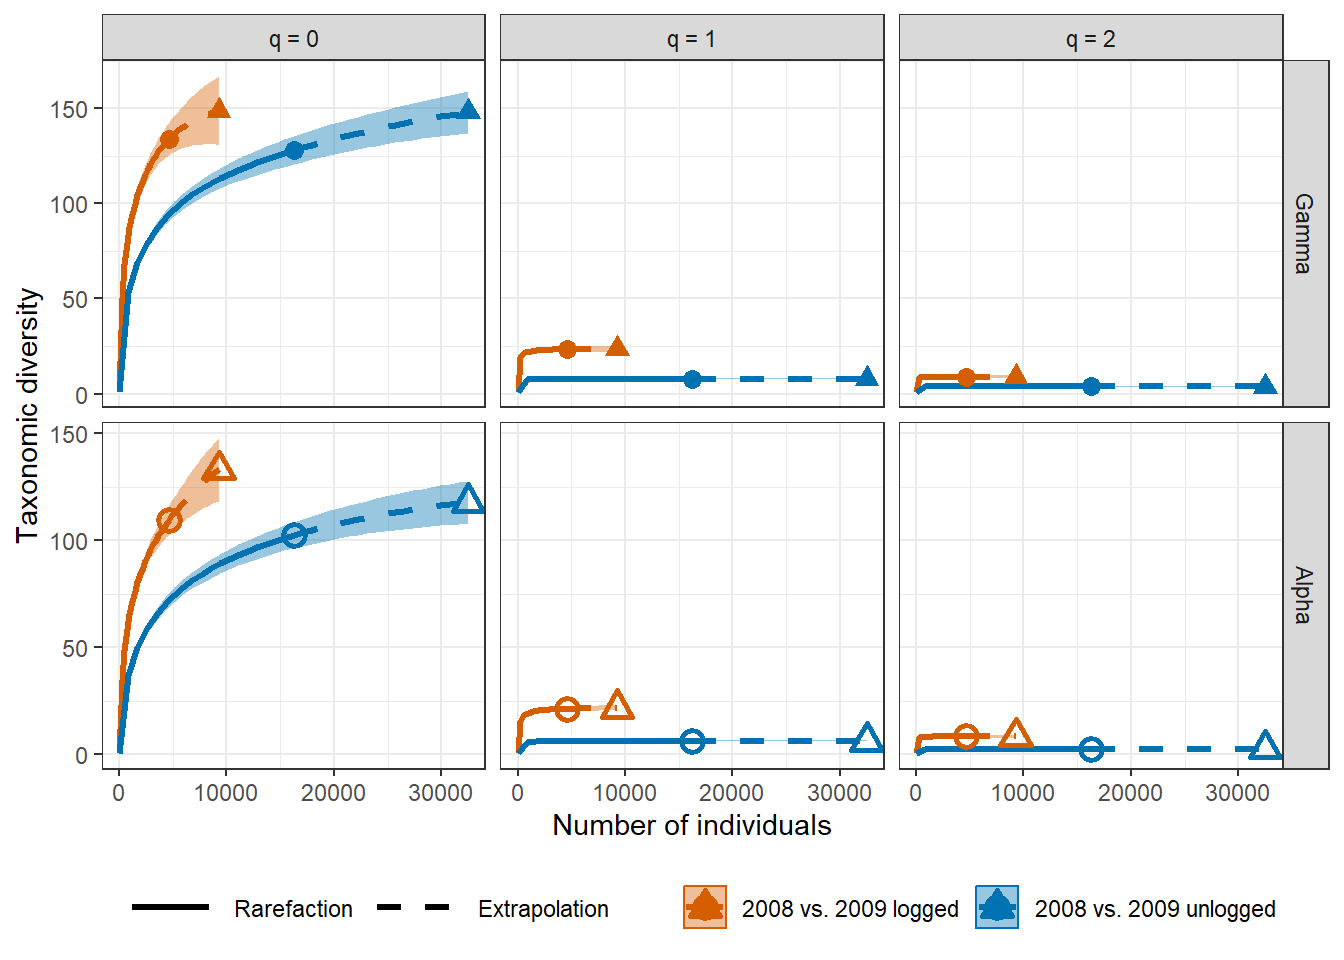
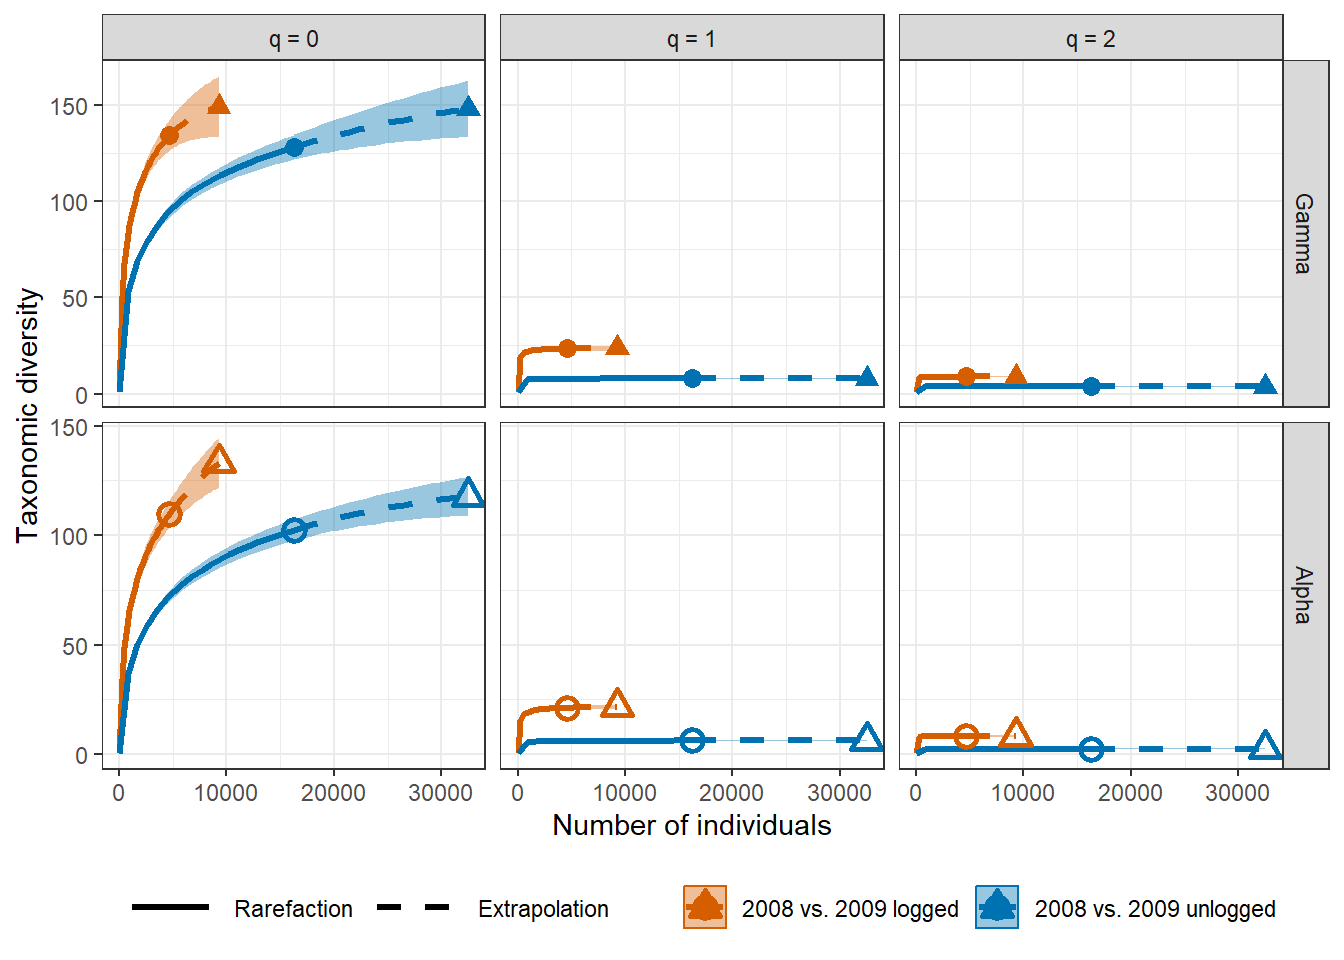
Update README.

diff --git a/README.md b/README.md
@@ -12,8 +12,8 @@ User’s Guide
 </h3>
 </font> <br>
 <h5>
-<b>Hsieh, Anne Chao, Kai-Hsiang Hu</b> <br><br> <i>Institute of
-Statistics, National Tsing Hua University, Hsin-Chu, Taiwan 30043</i>
+<b>Anne Chao, Kai-Hsiang Hu</b> <br><br> <i>Institute of Statistics,
+National Tsing Hua University, Hsin-Chu, Taiwan 30043</i>
 </h5>
 
 <br> iNEXT.beta3D (iNterpolation and EXTrapolation for three dimensions
@@ -61,9 +61,9 @@ alpha, and beta diversity and four dissimilarity-turnover.
 
 The `iNEXT.beta3D` package can be downloaded from Anne Chao’s
 [iNEXT.beta3D_github](https://github.com/AnneChao/iNEXT.beta3D) using
-the following commands. For a first-time installation, an additional
-visualization extension package (`ggplot2`) and (`iNEXT.3D`) from Anne
-Chao’s github must be installed and loaded.
+the following commands. For a first-time installation, additional
+visualization extension packages (`ggplot2`) from CRAN and (`iNEXT.3D`)
+from Anne Chao’s github must be installed and loaded.
 
 ``` r
 # install_github('AnneChao/iNEXT.3D')
@@ -473,66 +473,66 @@ Abundance_TD
 
     $gamma
       Estimate Order.q      Method    SC  Size  s.e.   LCL   UCL                 Region diversity
-    1    2.032       0 Rarefaction 0.500 2.534 0.022 1.989 2.074 2008 vs. 2009 unlogged        TD
-    2    1.909       1 Rarefaction 0.500 2.534 0.019 1.872 1.947 2008 vs. 2009 unlogged        TD
-    3    1.776       2 Rarefaction 0.500 2.534 0.016 1.744 1.808 2008 vs. 2009 unlogged        TD
-    4    2.174       0 Rarefaction 0.525 2.787 0.024 2.126 2.222 2008 vs. 2009 unlogged        TD
-    5    2.028       1 Rarefaction 0.525 2.787 0.022 1.985 2.070 2008 vs. 2009 unlogged        TD
-    6    1.871       2 Rarefaction 0.525 2.787 0.019 1.835 1.907 2008 vs. 2009 unlogged        TD
+    1    2.032       0 Rarefaction 0.500 2.534 0.026 1.980 2.083 2008 vs. 2009 unlogged        TD
+    2    1.909       1 Rarefaction 0.500 2.534 0.023 1.864 1.955 2008 vs. 2009 unlogged        TD
+    3    1.776       2 Rarefaction 0.500 2.534 0.020 1.738 1.815 2008 vs. 2009 unlogged        TD
+    4    2.174       0 Rarefaction 0.525 2.787 0.030 2.116 2.233 2008 vs. 2009 unlogged        TD
+    5    2.028       1 Rarefaction 0.525 2.787 0.026 1.976 2.079 2008 vs. 2009 unlogged        TD
+    6    1.871       2 Rarefaction 0.525 2.787 0.022 1.827 1.915 2008 vs. 2009 unlogged        TD
 
     $alpha
       Estimate Order.q      Method    SC  Size  s.e.   LCL   UCL                 Region diversity
-    1    1.566       0 Rarefaction 0.500 4.141 0.023 1.521 1.611 2008 vs. 2009 unlogged        TD
-    2    1.434       1 Rarefaction 0.500 4.141 0.020 1.395 1.472 2008 vs. 2009 unlogged        TD
-    3    1.291       2 Rarefaction 0.500 4.141 0.016 1.259 1.323 2008 vs. 2009 unlogged        TD
-    4    1.686       0 Rarefaction 0.525 4.615 0.026 1.634 1.738 2008 vs. 2009 unlogged        TD
-    5    1.527       1 Rarefaction 0.525 4.615 0.023 1.483 1.571 2008 vs. 2009 unlogged        TD
-    6    1.360       2 Rarefaction 0.525 4.615 0.019 1.324 1.396 2008 vs. 2009 unlogged        TD
+    1    1.566       0 Rarefaction 0.500 4.141 0.021 1.525 1.606 2008 vs. 2009 unlogged        TD
+    2    1.434       1 Rarefaction 0.500 4.141 0.017 1.400 1.468 2008 vs. 2009 unlogged        TD
+    3    1.291       2 Rarefaction 0.500 4.141 0.014 1.263 1.319 2008 vs. 2009 unlogged        TD
+    4    1.686       0 Rarefaction 0.525 4.615 0.024 1.639 1.733 2008 vs. 2009 unlogged        TD
+    5    1.527       1 Rarefaction 0.525 4.615 0.020 1.488 1.567 2008 vs. 2009 unlogged        TD
+    6    1.360       2 Rarefaction 0.525 4.615 0.016 1.328 1.392 2008 vs. 2009 unlogged        TD
 
     $beta
       Estimate Order.q      Method    SC  Size  s.e.   LCL   UCL                 Region diversity
-    1    1.298       0 Rarefaction 0.500 4.141 0.004 1.289 1.306 2008 vs. 2009 unlogged        TD
-    2    1.332       1 Rarefaction 0.500 4.141 0.004 1.323 1.340 2008 vs. 2009 unlogged        TD
-    3    1.376       2 Rarefaction 0.500 4.141 0.004 1.368 1.384 2008 vs. 2009 unlogged        TD
-    4    1.289       0 Rarefaction 0.525 4.615 0.004 1.281 1.298 2008 vs. 2009 unlogged        TD
-    5    1.328       1 Rarefaction 0.525 4.615 0.004 1.319 1.336 2008 vs. 2009 unlogged        TD
-    6    1.376       2 Rarefaction 0.525 4.615 0.004 1.367 1.384 2008 vs. 2009 unlogged        TD
+    1    1.298       0 Rarefaction 0.500 4.141 0.005 1.289 1.307 2008 vs. 2009 unlogged        TD
+    2    1.332       1 Rarefaction 0.500 4.141 0.005 1.323 1.341 2008 vs. 2009 unlogged        TD
+    3    1.376       2 Rarefaction 0.500 4.141 0.005 1.367 1.385 2008 vs. 2009 unlogged        TD
+    4    1.289       0 Rarefaction 0.525 4.615 0.005 1.280 1.298 2008 vs. 2009 unlogged        TD
+    5    1.328       1 Rarefaction 0.525 4.615 0.005 1.319 1.337 2008 vs. 2009 unlogged        TD
+    6    1.376       2 Rarefaction 0.525 4.615 0.005 1.367 1.385 2008 vs. 2009 unlogged        TD
 
     $C
       Estimate Order.q      Method    SC  Size  s.e.   LCL   UCL                 Region diversity
-    1    0.298       0 Rarefaction 0.500 4.141 0.004 0.289 0.306 2008 vs. 2009 unlogged        TD
-    2    0.413       1 Rarefaction 0.500 4.141 0.005 0.404 0.422 2008 vs. 2009 unlogged        TD
-    3    0.546       2 Rarefaction 0.500 4.141 0.004 0.538 0.555 2008 vs. 2009 unlogged        TD
-    4    0.289       0 Rarefaction 0.525 4.615 0.004 0.281 0.298 2008 vs. 2009 unlogged        TD
-    5    0.409       1 Rarefaction 0.525 4.615 0.005 0.400 0.418 2008 vs. 2009 unlogged        TD
-    6    0.546       2 Rarefaction 0.525 4.615 0.005 0.537 0.555 2008 vs. 2009 unlogged        TD
+    1    0.298       0 Rarefaction 0.500 4.141 0.005 0.289 0.307 2008 vs. 2009 unlogged        TD
+    2    0.413       1 Rarefaction 0.500 4.141 0.005 0.403 0.423 2008 vs. 2009 unlogged        TD
+    3    0.546       2 Rarefaction 0.500 4.141 0.005 0.537 0.556 2008 vs. 2009 unlogged        TD
+    4    0.289       0 Rarefaction 0.525 4.615 0.005 0.280 0.298 2008 vs. 2009 unlogged        TD
+    5    0.409       1 Rarefaction 0.525 4.615 0.005 0.399 0.419 2008 vs. 2009 unlogged        TD
+    6    0.546       2 Rarefaction 0.525 4.615 0.005 0.537 0.556 2008 vs. 2009 unlogged        TD
 
     $U
       Estimate Order.q      Method    SC  Size  s.e.   LCL   UCL                 Region diversity
-    1    0.459       0 Rarefaction 0.500 4.141 0.005 0.449 0.469 2008 vs. 2009 unlogged        TD
-    2    0.413       1 Rarefaction 0.500 4.141 0.005 0.404 0.422 2008 vs. 2009 unlogged        TD
-    3    0.376       2 Rarefaction 0.500 4.141 0.004 0.368 0.384 2008 vs. 2009 unlogged        TD
-    4    0.449       0 Rarefaction 0.525 4.615 0.005 0.438 0.459 2008 vs. 2009 unlogged        TD
-    5    0.409       1 Rarefaction 0.525 4.615 0.005 0.400 0.418 2008 vs. 2009 unlogged        TD
-    6    0.376       2 Rarefaction 0.525 4.615 0.004 0.367 0.384 2008 vs. 2009 unlogged        TD
+    1    0.459       0 Rarefaction 0.500 4.141 0.005 0.448 0.469 2008 vs. 2009 unlogged        TD
+    2    0.413       1 Rarefaction 0.500 4.141 0.005 0.403 0.423 2008 vs. 2009 unlogged        TD
+    3    0.376       2 Rarefaction 0.500 4.141 0.005 0.367 0.385 2008 vs. 2009 unlogged        TD
+    4    0.449       0 Rarefaction 0.525 4.615 0.005 0.438 0.460 2008 vs. 2009 unlogged        TD
+    5    0.409       1 Rarefaction 0.525 4.615 0.005 0.399 0.419 2008 vs. 2009 unlogged        TD
+    6    0.376       2 Rarefaction 0.525 4.615 0.005 0.367 0.385 2008 vs. 2009 unlogged        TD
 
     $V
       Estimate Order.q      Method    SC  Size  s.e.   LCL   UCL                 Region diversity
-    1    0.298       0 Rarefaction 0.500 4.141 0.004 0.289 0.306 2008 vs. 2009 unlogged        TD
-    2    0.332       1 Rarefaction 0.500 4.141 0.004 0.323 0.340 2008 vs. 2009 unlogged        TD
-    3    0.376       2 Rarefaction 0.500 4.141 0.004 0.368 0.384 2008 vs. 2009 unlogged        TD
-    4    0.289       0 Rarefaction 0.525 4.615 0.004 0.281 0.298 2008 vs. 2009 unlogged        TD
-    5    0.328       1 Rarefaction 0.525 4.615 0.004 0.319 0.336 2008 vs. 2009 unlogged        TD
-    6    0.376       2 Rarefaction 0.525 4.615 0.004 0.367 0.384 2008 vs. 2009 unlogged        TD
+    1    0.298       0 Rarefaction 0.500 4.141 0.005 0.289 0.307 2008 vs. 2009 unlogged        TD
+    2    0.332       1 Rarefaction 0.500 4.141 0.005 0.323 0.341 2008 vs. 2009 unlogged        TD
+    3    0.376       2 Rarefaction 0.500 4.141 0.005 0.367 0.385 2008 vs. 2009 unlogged        TD
+    4    0.289       0 Rarefaction 0.525 4.615 0.005 0.280 0.298 2008 vs. 2009 unlogged        TD
+    5    0.328       1 Rarefaction 0.525 4.615 0.005 0.319 0.337 2008 vs. 2009 unlogged        TD
+    6    0.376       2 Rarefaction 0.525 4.615 0.005 0.367 0.385 2008 vs. 2009 unlogged        TD
 
     $S
       Estimate Order.q      Method    SC  Size  s.e.   LCL   UCL                 Region diversity
-    1    0.459       0 Rarefaction 0.500 4.141 0.005 0.449 0.469 2008 vs. 2009 unlogged        TD
-    2    0.498       1 Rarefaction 0.500 4.141 0.005 0.489 0.507 2008 vs. 2009 unlogged        TD
-    3    0.546       2 Rarefaction 0.500 4.141 0.004 0.538 0.555 2008 vs. 2009 unlogged        TD
-    4    0.449       0 Rarefaction 0.525 4.615 0.005 0.438 0.459 2008 vs. 2009 unlogged        TD
-    5    0.494       1 Rarefaction 0.525 4.615 0.005 0.484 0.503 2008 vs. 2009 unlogged        TD
-    6    0.546       2 Rarefaction 0.525 4.615 0.005 0.537 0.555 2008 vs. 2009 unlogged        TD
+    1    0.459       0 Rarefaction 0.500 4.141 0.005 0.448 0.469 2008 vs. 2009 unlogged        TD
+    2    0.498       1 Rarefaction 0.500 4.141 0.005 0.488 0.508 2008 vs. 2009 unlogged        TD
+    3    0.546       2 Rarefaction 0.500 4.141 0.005 0.537 0.556 2008 vs. 2009 unlogged        TD
+    4    0.449       0 Rarefaction 0.525 4.615 0.005 0.438 0.460 2008 vs. 2009 unlogged        TD
+    5    0.494       1 Rarefaction 0.525 4.615 0.005 0.483 0.504 2008 vs. 2009 unlogged        TD
+    6    0.546       2 Rarefaction 0.525 4.615 0.005 0.537 0.556 2008 vs. 2009 unlogged        TD
 
 The output contains seven data frames: `gamma`, `alpha`, `beta`, `C`,
 `U`, `V`, `S`. For each data frame, it includes the diversity estimate
